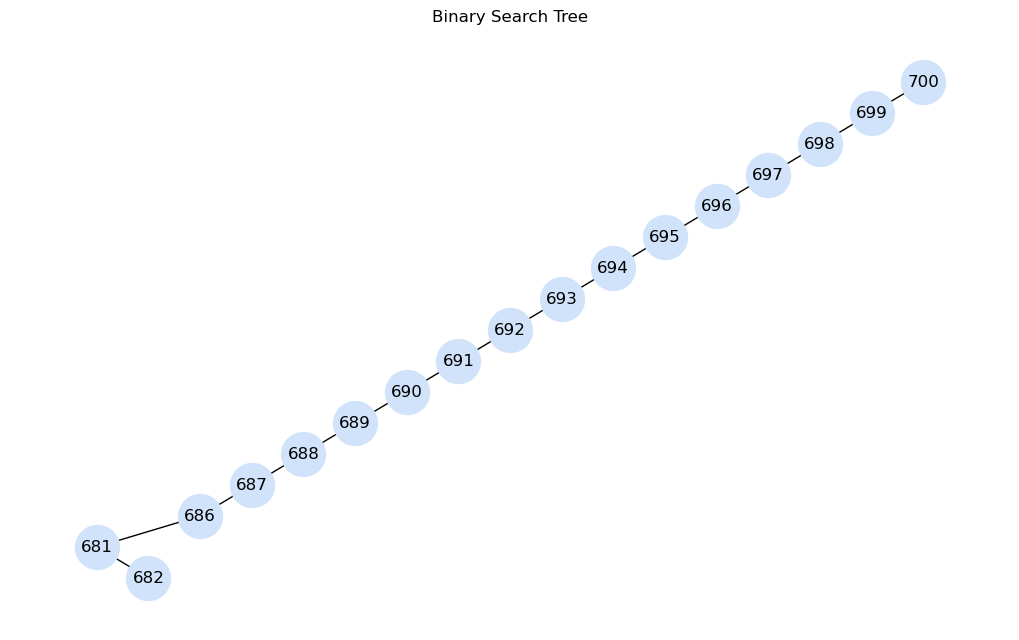
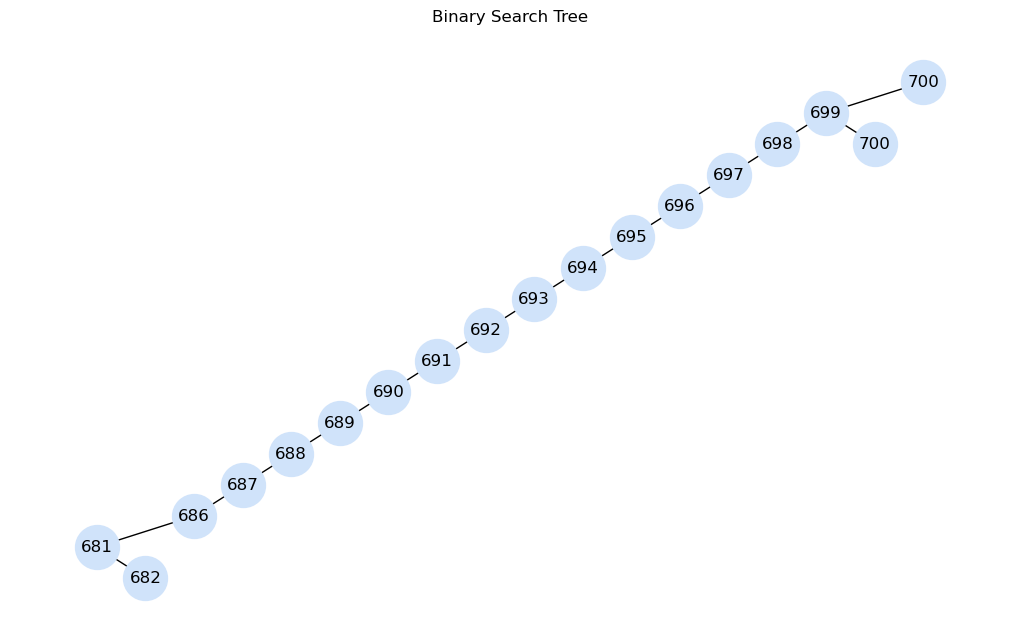
Corrected delete method in BST

Changed region(s): [[0.1217, 0.125, 0.8822, 0.8438], [0.1217, 0.875, 0.1825, 0.9375]]

diff --git a/period-2/binary-search-tree/tree.py b/period-2/binary-search-tree/tree.py
@@ -21,6 +21,7 @@ class BinaryTree:
     def __init__(self):
         """Initializes an empty binary search tree."""
         self.root: Optional[Node] = None
+        self.grade: int = 2
 
     def __str__(self) -> str:
         """Generates a string representation of the tree in in-order traversal.
@@ -154,14 +155,14 @@ class BinaryTree:
         self.root = self._delete_recursive(self.root, value)
 
     def _delete_recursive(self, node: Optional[Node], value: int) -> Optional[Node]:
-        """Recursively deletes a node with the specified value from the subtree.
+        """Recursively deletes a node with the given value from the BST.
 
         Args:
-            node (Optional[Node]): The root node of the current subtree.
-            value (int): The value of the node to delete.
+            node (Optional[Node]): The current node in the recursive traversal.
+            value (int): The value to delete from the tree.
 
         Returns:
-            Optional[Node]: The root node of the modified subtree.
+            Optional[Node]: The updated node after deletion.
         """
         if node is None:
             return None
@@ -174,23 +175,23 @@ class BinaryTree:
                 return node.right
             if node.right is None:
                 return node.left
-            temp = self._min_value_node(node.right)
+            temp = self._max_value_node(node.left)
             node.value = temp.value
-            node.right = self._delete_recursive(node.right, temp.value)
+            node.left = self._delete_recursive(node.left, temp.value)
         return node
 
-    def _min_value_node(self, node: Node) -> Node:
-        """Finds the node with the minimum value in the given subtree.
+    def _max_value_node(self, node: Node) -> Node:
+        """Finds the node with the maximum value in the subtree rooted at the given node.
 
         Args:
-            node (Node): The root node of the subtree.
+            node (Node): The root of the subtree.
 
         Returns:
-            Node: The node with the smallest value in the subtree.
+            Node: The node with the maximum value in the subtree.
         """
         current = node
-        while current.left is not None:
-            current = current.left
+        while current.right is not None:
+            current = current.right
         return current
 
     def inorder_traversal(self) -> List[int]:

diff --git a/period-2/binary-search-tree/main.py b/period-2/binary-search-tree/main.py
@@ -3,11 +3,12 @@ from tree import BinaryTree
 from tree_visual import BinaryTreeVisualizer as btv
 
 tree = BinaryTree()
-tree.insert_list([700, 20, 1042, 1024, 64, 12, 3, 19, 546, 223, 1, 1000, 365, 6, 2025, 815, 2023])
+tree.insert_list([700, 20, 1042, 1024, 64, 12, 3, 19, 546, 223, 1, 1000, 365, 6, 2025, 815, 2023,815])
 tree2 = BinaryTree()
-tree2.insert_list([700, 699, 698, 697, 696, 695, 694, 693, 692, 691, 690, 689, 688, 687, 686, 681, 682])
+tree2.insert_list([700, 699, 698, 697, 696, 695, 694, 693, 692, 691, 690, 689, 688, 687, 686, 681, 682,700])
 
 print(tree.search(8))
+print(tree.grade)
 print(f"Altura del arbol 1: {tree.height}")
 print(f"Altura balanceada del arbol 1: {tree.balanced_height:.2f}")
 print(f"Nodos del arbol 1: {tree.nodes}")
@@ -17,5 +18,11 @@ print(f"Altura del arbol 2: {tree2.height}")
 print("\nInorder traversal:")
 print(tree)
 
+
 btv.plot(tree, "tree.png")
 btv.plot(tree2, "tree2.png")
+
+tree.delete(12)
+print("\nInorder traversal:")
+print(tree)
+btv.plot(tree, "new_tree.png")
